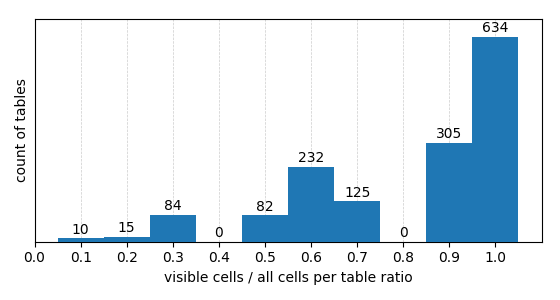
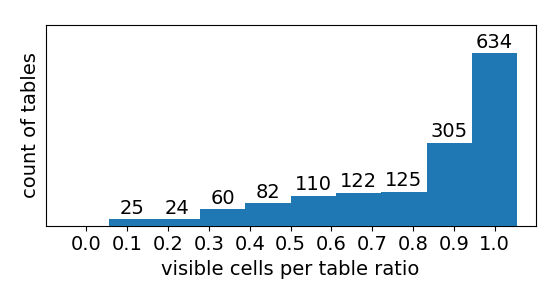
added views, added graph parameters

Changed region(s): [[0.0304, 0.06, 0.9714, 0.96], [0.7589, 0.39, 0.85, 0.48], [0.0304, 0.84, 0.0911, 0.87]]

diff --git a/src/db_refining/ViewBuilder.py b/src/db_refining/ViewBuilder.py
@@ -95,16 +95,16 @@ class ViewBuilder:
         self.dbconnector.execute(sql)
 
     def _buildTablesOrientationInfo(self):
-        sql= '''create view tables_orientation_info as 
+        sql= '''create view tables_orientation_info as
 with first_table as (
             Select 
-                min(first_row * first_column), first_row, last_row, first_column, 
+                min((first_row +1) * (first_column +1)), first_row, last_row, first_column, 
                 last_column, file_name, table_name, sheet_name
             from tables
-            group by sheet_name, file_name
+            group by file_name, sheet_name
             order by file_name),
             
-            table_join as(
+    table_join as(
             select 
                 t.first_row as t1_first_row, 
                 t.first_column as t1_first_column, 
@@ -115,15 +115,14 @@ with first_table as (
                 ft.last_row as t2_last_row,
                 ft.last_column as t2_last_column,
                 ft.sheet_name, 
-                ft.file_name,
-				ft.table_name
+				ft.file_name,
+				ft.table_name as first_table_name,
+				t.table_name as lower_table_name
             from tables t
             inner join first_table ft
-            on t.file_name=ft.file_name and t.sheet_name = ft.sheet_name
-            where t.table_name != ft.table_name)
-            
-             
-            select 
+            on t.file_name=ft.file_name and t.sheet_name = ft.sheet_name)
+			
+			select 
             case 
                 WHEN 
                     t1_first_column >  t2_last_column
@@ -143,18 +142,21 @@ with first_table as (
                     then 1
                     else 0 
             end as horizontal_vertical,
-			table_name,
+			lower_table_name,
+			first_table_name,
             file_name,
             sheet_name
-            from table_join'''
+            from table_join
+		    '''
         self.dbconnector.execute(sql)
 
     def _buildTopLeftTables(self):
         sql = '''create view top_left_tables as 
-            Select 
-                min(first_row * first_column), first_row, last_row, first_column, 
+			Select 
+                min((first_row +1) * (first_column +1)), first_row, last_row, first_column, 
                 last_column, file_name, table_name, sheet_name
             from tables
-            group by sheet_name, file_name
-            order by file_name'''
+            group by file_name, sheet_name
+            order by file_name
+			'''
         self.dbconnector.execute(sql)

diff --git a/src/graph/HorizontalGapGraph.py b/src/graph/HorizontalGapGraph.py
@@ -5,7 +5,7 @@ import numpy as np
 import seaborn as sns
 from matplotlib.pyplot import gca
 
-class Table_per_Sheet_Graph:
+class HorizontalGapGraph:
     count_tables = []
 
     def __init__(self, dbconnector):
@@ -16,35 +16,35 @@ class Table_per_Sheet_Graph:
         plt.clf()
         plt.cla()
         plt.figure(figsize=[5.6, 3])
-        plt.xlim([0, 10])
-        plt.ylim([0, 800])
-        plt.xticks(np.arange(1, 9, 1.0))
+        plt.xlim([-1, 15])
+        plt.ylim([0, 65])
+        plt.xticks(np.arange(0, 15, 1.0))
         plt.yticks([])
-        plt.xlabel('count of tables')
-        plt.ylabel('count of sheets')
+        plt.xlabel('gap size in columns')
+        plt.ylabel('count of distances')
         #plt.grid(color='#cccccc', linestyle='--', linewidth=0.5, zorder=0)
-        ax = sns.distplot(self.tables_per_sheet, bins=124, hist=True, kde=False,
+        ax = sns.distplot(self.tables_per_sheet, bins=50, hist=True, kde=False,
                      hist_kws={ 'zorder': 3,  'alpha':1.0, 'align': 'left' })
 
 
-        rects = ax.patches[:10]
-        labels = [int(h.get_height()) for h in ax.patches][:10]
+        rects = ax.patches[:]
+        labels = [int(h.get_height()) for h in ax.patches][:15]
 
         # numbers on bars
         for rect, label in zip(rects, labels):
             height = rect.get_height()
-            plt.text(rect.get_x() + rect.get_width() / 2, height + 5, label,
+            plt.text(rect.get_x() + rect.get_width() / 2, height + 2, label,
                     ha='center', va='bottom')
 
         plt.tight_layout()
 
 
         #plt.show()
-        plt.savefig('images/table_count_per_file.png')
+        plt.savefig('images/horizontal_gaps_between_tables.png')
 
 
     def _getTablesPerSheet(self):
-        sql = 'Select count(distinct table_name) from cell_annotations where table_name is not NULL group by file_name'
+        sql = 'select distance from horizontal_table_distances'
         result = self.dbconnector.execute(sql)
         print(pd.DataFrame(result))
         return pd.DataFrame(result)

diff --git a/src/graph/VerticalGapGraph.py b/src/graph/VerticalGapGraph.py
@@ -5,7 +5,7 @@ import numpy as np
 import seaborn as sns
 from matplotlib.pyplot import gca
 
-class Table_per_Sheet_Graph:
+class VerticalGapGraph:
     count_tables = []
 
     def __init__(self, dbconnector):
@@ -16,35 +16,35 @@ class Table_per_Sheet_Graph:
         plt.clf()
         plt.cla()
         plt.figure(figsize=[5.6, 3])
-        plt.xlim([0, 10])
-        plt.ylim([0, 800])
-        plt.xticks(np.arange(1, 9, 1.0))
+        plt.xlim([-1, 15])
+        plt.ylim([0, 150])
+        plt.xticks(np.arange(0, 14, 1.0))
         plt.yticks([])
-        plt.xlabel('count of tables')
-        plt.ylabel('count of sheets')
+        plt.xlabel('gap size in row count')
+        plt.ylabel('count of distances')
         #plt.grid(color='#cccccc', linestyle='--', linewidth=0.5, zorder=0)
-        ax = sns.distplot(self.tables_per_sheet, bins=124, hist=True, kde=False,
+        ax = sns.distplot(self.tables_per_sheet, bins=49, hist=True, kde=False,
                      hist_kws={ 'zorder': 3,  'alpha':1.0, 'align': 'left' })
 
 
-        rects = ax.patches[:10]
-        labels = [int(h.get_height()) for h in ax.patches][:10]
+        rects = ax.patches[:]
+        labels = [int(h.get_height()) for h in ax.patches][:15]
 
         # numbers on bars
         for rect, label in zip(rects, labels):
             height = rect.get_height()
-            plt.text(rect.get_x() + rect.get_width() / 2, height + 5, label,
+            plt.text(rect.get_x() + rect.get_width() / 2, height + 2, label,
                     ha='center', va='bottom')
 
         plt.tight_layout()
 
 
         #plt.show()
-        plt.savefig('images/table_count_per_file.png')
+        plt.savefig('images/vertical_gaps_between_tables.png')
 
 
     def _getTablesPerSheet(self):
-        sql = 'Select count(distinct table_name) from cell_annotations where table_name is not NULL group by file_name'
+        sql = 'select distance from vertical_table_distances'
         result = self.dbconnector.execute(sql)
         print(pd.DataFrame(result))
         return pd.DataFrame(result)

diff --git a/src/graph/GraphManager.py b/src/graph/GraphManager.py
@@ -2,13 +2,17 @@ from src.graph.Table_per_Sheet_Graph import Table_per_Sheet_Graph
 from src.graph.TableStats import TableStats
 from src.graph.Sheets_With_Label_Graph import Sheets_With_Label_Graph
 from src.graph.Visible_Cells_per_Table_Graph import Visible_Cells_per_Table_Graph
-from src.graph.Coverage_Graph import Coverage_Graph
+from src.graph.CoverageGraph import Coverage_Graph
 from src.graph.Width_Height_Ratio_Graph import Width_Height_Ratio_Graph
 from src.graph.HorizontalVerticalOrientationGraph import HorizontalVerticalOrientationGraph
+from src.graph.VerticalGapGraph import VerticalGapGraph
+from src.graph.HorizontalGapGraph import HorizontalGapGraph
+import matplotlib.pyplot as plt
 
 class GraphManager:
     graphsForDrawing = []
     dbconnector = None
+    plt.rcParams.update({'font.size': 14})
 
     def __init__(self, dbconnector):
         self.dbconnector = dbconnector
@@ -20,9 +24,11 @@ class GraphManager:
         coverageGraph = Coverage_Graph(dbconnector)
         widthHeightGraph = Width_Height_Ratio_Graph(dbconnector)
         orientationGraph = HorizontalVerticalOrientationGraph(dbconnector)
+        verticalGapsGraph = VerticalGapGraph(dbconnector)
+        horizontalGapGraph = HorizontalGapGraph(dbconnector)
 
 
-        self.graphsForDrawing = [ tableCountGraph, labelCountGraph, hiddenCellsGraph, coverageGraph, widthHeightGraph, orientationGraph,  tableStats ]
+        self.graphsForDrawing = [ horizontalGapGraph, verticalGapsGraph , tableCountGraph, labelCountGraph, hiddenCellsGraph, coverageGraph, widthHeightGraph, orientationGraph,  tableStats ]
 
     def draw(self):
         for graph in self.graphsForDrawing:

diff --git a/src/graph/Visible_Cells_per_Table_Graph.py b/src/graph/Visible_Cells_per_Table_Graph.py
@@ -15,16 +15,16 @@ class Visible_Cells_per_Table_Graph:
         plt.clf()
         plt.cla()
         plt.figure(figsize= [5.6, 3])
-        plt.xlabel('visible cells / all cells per table ratio')
+        plt.xlabel('visible cells per table ratio')
         plt.ylabel('count of tables')
 
-        #plt.xlim([0,1])
-        plt.ylim([0,690])
+        plt.xlim([-0.1,1.1])
+        plt.ylim([0,740])
         plt.xticks([0, .1, .2, .3, .4, .5, .6, .7, .8, .9, 1])
         plt.yticks([])
 
-        plt.grid(color='#cccccc', linestyle='--', linewidth=0.5, zorder=0)
-        ax = sns.distplot(self.ratio_filled_cells_per_table, bins=10, hist=True, kde=False,
+        #plt.grid(color='#cccccc', linestyle='--', linewidth=0.5, zorder=0)
+        ax = sns.distplot(self.ratio_filled_cells_per_table, bins=9, hist=True, kde=False,
                      hist_kws={'zorder': 3, 'alpha':1.0, 'align': 'right'})
         plt.tight_layout()
 

diff --git a/src/graph/CoverageGraph.py b/src/graph/CoverageGraph.py
@@ -15,14 +15,14 @@ class Coverage_Graph:
         plt.clf()
         plt.cla()
         plt.figure(figsize= [5.6, 3])
-        #plt.xlim([0,1.1])
-        plt.ylim([0,810])
+        plt.xlim([-0.1,1.1])
+        plt.ylim([0,830])
         plt.yticks([])
-        plt.xlabel('visible filled cells in table / total ratio')
-        plt.ylabel('count of spreadsheets')
+        plt.xlabel('coverage ratio per sheet')
+        plt.ylabel('count of sheets')
 
         plt.xticks([ 0, .1, .2, .3, .4, .5, .6, .7, .8, .9, 1])
-        plt.grid(color='#cccccc', linestyle='--', linewidth=0.5, zorder=0)
+        #plt.grid(color='#cccccc', linestyle='--', linewidth=0.5, zorder=0)
         ax = sns.distplot(self.coverage_per_table, bins=10, hist=True, kde=False,
                      hist_kws={'zorder': 3,  'alpha': 1.0, 'align': 'right'})
 

diff --git a/src/graph/Width_Height_Ratio_Graph.py b/src/graph/Width_Height_Ratio_Graph.py
@@ -16,14 +16,14 @@ class Width_Height_Ratio_Graph:
         plt.clf()
         plt.cla()
         plt.figure(figsize=[5.6, 3])
-        plt.xlim([0, 5.05])
-        plt.ylim([0,780])
-        plt.xlabel('table width / height ratio')
+        plt.xlim([0, 5])
+        plt.ylim([0,830])
+        plt.xlabel('table width/height ratio')
         plt.ylabel('count of tables')
 
        # plt.xticks(np.arange(0, 2, step=0.2))
         plt.yticks([])
-        plt.grid(color='#cccccc', linestyle='--', linewidth=0.5, zorder=0)
+        #plt.grid(color='#cccccc', linestyle='--', linewidth=0.5, zorder=0)
         ax = sns.distplot(self.width_height_ratio_per_table, bins=31, hist=True, kde=False,
                      hist_kws={'zorder': 3, 'alpha': 1.0})
 

diff --git a/src/graph/Sheets_With_Label_Graph.py b/src/graph/Sheets_With_Label_Graph.py
@@ -23,12 +23,12 @@ class Sheets_With_Label_Graph:
         y_pos = np.arange(len(bars))
 
 
-        plt.xlabel('labels')
-        plt.ylabel('count of spreadsheets')
-        plt.ylim([0,1000])
-        plt.xticks(y_pos, bars, rotation=40, horizontalalignment='right')
+        plt.xlabel('cell labels in sheets')
+        plt.ylabel('count of sheets')
+        plt.ylim([0,1100])
+        plt.xticks(y_pos, bars, rotation=25, horizontalalignment='right')
         plt.yticks([])
-        plt.grid(color='#cccccc', linestyle='--', linewidth=0.5, zorder=0)
+        #plt.grid(color='#cccccc', linestyle='--', linewidth=0.5, zorder=0)
         ax = plt.bar(y_pos, height, zorder=3)
 
         rects = ax.patches

diff --git a/src/graph/HorizontalVerticalOrientationGraph.py b/src/graph/HorizontalVerticalOrientationGraph.py
@@ -18,7 +18,7 @@ class HorizontalVerticalOrientationGraph:
         plt.cla()
         plt.figure(figsize=[5.6, 3])
         # plt.xlim([0, 10])
-        plt.ylim([0, 350])
+        plt.ylim([0, 370])
         plt.xticks([])
         plt.yticks([])
 
@@ -31,7 +31,7 @@ class HorizontalVerticalOrientationGraph:
 
         rects = ax.patches[:3]
         labels = [int(h.get_height()) for h in ax.patches][:3]
-        plt.xticks([1,2,3], ['horizontal', 'vertical', 'both'])
+        plt.xticks([1,2,3], ['horizontal', 'vertical', 'horizontal & vertical'])
 
 
 
